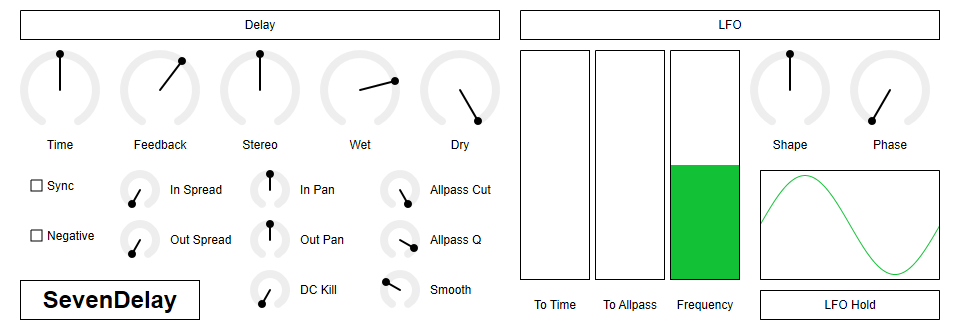
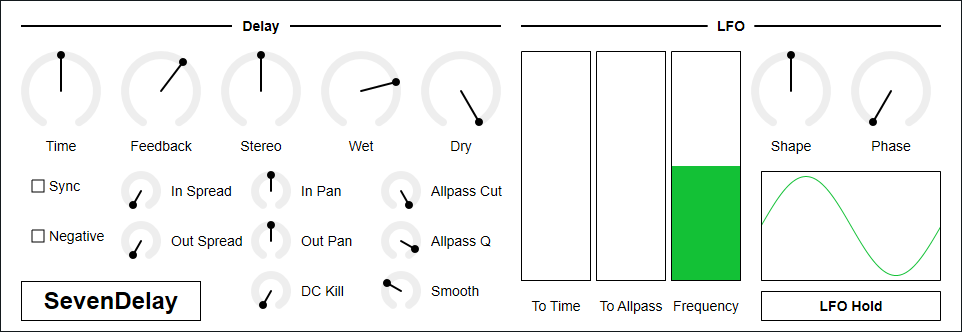
Update documentation

diff --git a/docs/manual/SyncSawSynth/SyncSawSynth_ja.html b/docs/manual/SyncSawSynth/SyncSawSynth_ja.html
@@ -227,6 +227,8 @@ footer {
 <li><a href="#sync-と-synctype">Sync と SyncType</a></li>
 <li><a href="#osctype">OscType</a></li>
 <li><a href="#phase">Phase</a></li>
+<li><a href="#unison">Unison</a></li>
+<li><a href="#number-of-voice">Number of Voice</a></li>
 </ul></li>
 <li><a href="#modulation">Modulation</a><ul>
 <li><a href="#osc1-sync1">Osc1-&gt;Sync1</a></li>
@@ -283,7 +285,7 @@ footer {
 <p><img src="img/syncsawsynth.png" /></p>
 <p><ruby>SyncSawSynth<rt>シンクソウシンセ</rt></ruby>は10次までのPTR鋸歯波オシレータが使える32ボイスのポリフォニックシンセサイザです。主にハードシンクと周波数変調で電池が切れかけのおもちゃのような音を作る用途に向いています。もちろん普通の音も出ます。</p>
 <ul>
-<li><a href="https://github.com/ryukau/VSTPlugins/releases/download/SyncSawSynth0.1.1/SyncSawSynth0.1.1.zip">SyncSawSynth 0.1.1 をダウンロード - VST® 3 (github.com)</a> <img
+<li><a href="https://github.com/ryukau/VSTPlugins/releases/download/SyncSawSynth0.1.3/SyncSawSynth0.1.3.zip">SyncSawSynth 0.1.3 をダウンロード - VST® 3 (github.com)</a> <img
 src="img/VST_Compatible_Logo_Steinberg_negative.svg"
 alt="VST compatible logo."
 width="60px"
@@ -322,6 +324,7 @@ style="display: inline-block; vertical-align: middle;"></li>
 <h2 id="注意">注意</h2>
 <p>アタックの長さによって音量エンベロープのピーク値が変わります。音量エンベロープのアタックが小さいとき、ピークは通常より少し高くなることがあります。</p>
 <p>Dirty Filter にチェックを入れるとノートオンによってプチノイズが出ることがあります。</p>
+<p>パラメータの組み合わせによっては直流信号が乗るときがあります。ディストーションなどをかけると面白い音になることがあるので、直流は切っていません。安全のためには SyncSawSynth の後にハイパスフィルタを通すことが望ましいです。またオシロスコープで出力を監視することをお勧めします。</p>
 <h2 id="用語について">用語について</h2>
 <p>SyncSawSynth のオシレータは内部に 2 つのオシレータを持っています。 1 つは波形生成のために使われ、もう 1 つはハードシンクをトリガするために使われています。ハードシンクに関する用語として、波形生成のためのオシレータのことをスレーブ、トリガに使われるオシレータのことをマスタと呼んでいます。</p>
 <h2 id="パラメータ">パラメータ</h2>
@@ -355,6 +358,10 @@ style="display: inline-block; vertical-align: middle;"></li>
 <p>オシレータの位相。範囲は 0.0 から 1.0 。</p>
 <p><code>Lock</code> にチェックを入れるとノートオンのたびに位相がリセットされます。</p>
 <p><code>Osc2</code> の <code>Invert</code> にチェックを入れると、 <code>Osc2</code> の出力の正負の符号を変えることで位相を反転します。</p>
+<h4 id="unison">Unison</h4>
+<p>チェックを入れるとノートごとに位相の異なる同じ高さの音を重ねます。CPU負荷も2倍になります。</p>
+<h4 id="number-of-voice">Number of Voice</h4>
+<p>最大同時発音数。この値を減らすとCPU負荷を減らすことができます。</p>
 <h3 id="modulation">Modulation</h3>
 <h4 id="osc1-sync1">Osc1-&gt;Sync1</h4>
 <p><code>Osc1</code> の出力による <code>Osc1</code> のマスタ周波数の変調。範囲は 0.0 から 1.0 。</p>
@@ -458,6 +465,14 @@ ShaperB(x)  := 0.7439087749328765 * x^3 * exp(-abs(x))</code></pre>
 <p>ノートの MIDI ノート番号によるフィードバックの変調。範囲は -1.0 から 1.0 。</p>
 <h2 id="チェンジログ">チェンジログ</h2>
 <ul>
+<li>0.1.3
+<ul>
+<li>ユニゾンパラメータを追加。</li>
+<li>最大同時発音数パラメータを追加。</li>
+<li>内部のパラメータ構造を変更。</li>
+<li>UI の見た目を変更。</li>
+<li>フィルタと数学関数の高速化。</li>
+</ul></li>
 <li>0.1.1
 <ul>
 <li>ピッチベンドに対応。</li>

diff --git a/docs/manual/SyncSawSynth/SyncSawSynth_en.html b/docs/manual/SyncSawSynth/SyncSawSynth_en.html
@@ -227,6 +227,8 @@ footer {
 <li><a href="#sync-and-synctype">Sync and SyncType</a></li>
 <li><a href="#osctype">OscType</a></li>
 <li><a href="#phase">Phase</a></li>
+<li><a href="#unison">Unison</a></li>
+<li><a href="#number-of-voice">Number of Voice</a></li>
 </ul></li>
 <li><a href="#modulation">Modulation</a><ul>
 <li><a href="#osc1-sync1">Osc1-&gt;Sync1</a></li>
@@ -283,7 +285,7 @@ footer {
 <p><img src="img/syncsawsynth.png" /></p>
 <p>SyncSawSynth is a 32 voice polyphonic synthesizer using up to 10th order PTR sawtooth oscillator. Just a basic synthesizer but very easy to make a noise similar to low battery sound of some toys.</p>
 <ul>
-<li><a href="https://github.com/ryukau/VSTPlugins/releases/download/SyncSawSynth0.1.1/SyncSawSynth0.1.1.zip">Download SyncSawSynth 0.1.1 - VST® 3 (github.com)</a> <img
+<li><a href="https://github.com/ryukau/VSTPlugins/releases/download/SyncSawSynth0.1.3/SyncSawSynth0.1.3.zip">Download SyncSawSynth 0.1.3 - VST® 3 (github.com)</a> <img
 src="img/VST_Compatible_Logo_Steinberg_negative.svg"
 alt="VST compatible logo."
 width="60px"
@@ -322,6 +324,7 @@ style="display: inline-block; vertical-align: middle;"></li>
 <h2 id="caution">Caution</h2>
 <p>The peak value of gain envelope is determined by the length of attack. When gain envelope attack is small, the peak may be a bit higher than usual.</p>
 <p>When turning <code>Dirty Filter</code> on, a glitch may pops at the timing of note on.</p>
+<p>Some parameter configuration leads to massive DC offset. To be stay safe, it’s better to insert high-pass filter after SyncSawSynth. Monitoring output with oscilloscope is recommended.</p>
 <h2 id="terms">Terms</h2>
 <p>An oscillator of SyncSawSynth internally have 2 separate oscillators. One is for generating waveform, and other is to trigger hardsync. In term of hardsync, waveform generator is called slave and oscillator used to trigger is called master.</p>
 <h2 id="parameters">Parameters</h2>
@@ -355,6 +358,10 @@ style="display: inline-block; vertical-align: middle;"></li>
 <p>Oscillator phase. Range is 0.0 to 1.0.</p>
 <p>If <code>Lock</code> is checked, phase will be reset for each note on.</p>
 <p>If <code>Invert</code> on <code>Osc2</code> is checked, phase will be inverted by changing sign of the output of <code>Osc2</code>.</p>
+<h4 id="unison">Unison</h4>
+<p>When checked, add same tone with different phase for each note. CPU load will also be doubled.</p>
+<h4 id="number-of-voice">Number of Voice</h4>
+<p>Maximum polyphony. Lowering the number of this option reduces CPU load.</p>
 <h3 id="modulation">Modulation</h3>
 <h4 id="osc1-sync1">Osc1-&gt;Sync1</h4>
 <p>Modulation from <code>Osc1</code> output to <code>Osc1</code> master frequency. Range is 0.0 to 1.0.</p>
@@ -458,6 +465,14 @@ ShaperB(x)  := 0.7439087749328765 * x^3 * exp(-abs(x))</code></pre>
 <p>Modulation from MIDI note number to feedback. Range is -1.0 to 1.0.</p>
 <h2 id="change-log">Change Log</h2>
 <ul>
+<li>0.1.3
+<ul>
+<li>Added unison parameter.</li>
+<li>Added number of voice parameter.</li>
+<li>Changed internal parameter structure.</li>
+<li>Changed UI looks.</li>
+<li>Made filter and math function faster.</li>
+</ul></li>
 <li>0.1.1
 <ul>
 <li>Added pitchbend support.</li>

diff --git a/docs/manual/SevenDelay/SevenDelay_ja.html b/docs/manual/SevenDelay/SevenDelay_ja.html
@@ -254,7 +254,7 @@ footer {
 <p><img src="img/sevendelay.png" /></p>
 <p><ruby>SevenDelay<rt>セブンディレイ</rt></ruby> は7次のラグランジュ補間による分数ディレイと7倍のオーバーサンプリングを使ったステレオディレイです。</p>
 <ul>
-<li><a href="https://github.com/ryukau/VSTPlugins/releases/download/SevenDelay0.1.1/SevenDelay0.1.1.zip">SevenDelay 0.1.1 をダウンロード - VST® 3 (github.com)</a> <img
+<li><a href="https://github.com/ryukau/VSTPlugins/releases/download/SevenDelay0.1.2/SevenDelay0.1.2.zip">SevenDelay 0.1.2 をダウンロード - VST® 3 (github.com)</a> <img
 src="img/VST_Compatible_Logo_Steinberg_negative.svg"
 alt="VST compatible logo."
 width="60px"
@@ -362,6 +362,11 @@ lfo = sign * abs(sin(phase))^shape</code></pre>
 <p>LFO の位相のホールドの切り替え。ライブ演奏などで役に立つかもしれません。</p>
 <h2 id="チェンジログ">チェンジログ</h2>
 <ul>
+<li>0.1.2
+<ul>
+<li>内部のパラメータの構造を変更。</li>
+<li>UI の見た目を変更。</li>
+</ul></li>
 <li>0.1.1
 <ul>
 <li>Linux ビルドの GUI を無効化。VSTGUI に関するバグが治るまでの応急処置。</li>

diff --git a/docs/manual/SevenDelay/SevenDelay_en.html b/docs/manual/SevenDelay/SevenDelay_en.html
@@ -254,7 +254,7 @@ footer {
 <p><img src="img/sevendelay.png" /></p>
 <p>SevenDelay is a stereo delay with 7th order lagrange interpolated fractional delay and 7x oversampling.</p>
 <ul>
-<li><a href="https://github.com/ryukau/VSTPlugins/releases/download/SevenDelay0.1.1/SevenDelay0.1.1.zip">Download SevenDelay 0.1.1 - VST® 3 (github.com)</a> <img
+<li><a href="https://github.com/ryukau/VSTPlugins/releases/download/SevenDelay0.1.2/SevenDelay0.1.2.zip">Download SevenDelay 0.1.2 - VST® 3 (github.com)</a> <img
 src="img/VST_Compatible_Logo_Steinberg_negative.svg"
 alt="VST compatible logo."
 width="60px"
@@ -361,6 +361,11 @@ lfo = sign * abs(sin(phase))^shape</code></pre>
 <p>Toggle LFO phase hold. This may be useful for live performance.</p>
 <h2 id="change-log">Change Log</h2>
 <ul>
+<li>0.1.2
+<ul>
+<li>Changed internal parameter structure.</li>
+<li>Changed UI looks.</li>
+</ul></li>
 <li>0.1.1
 <ul>
 <li>Disabled GUI for Linux build. This is a makeshift change while tracking down a bug related to VSTGUI.</li>

diff --git a/docs/manual/SyncSawSynth/SyncSawSynth_ja.md b/docs/manual/SyncSawSynth/SyncSawSynth_ja.md
@@ -3,7 +3,7 @@
 
 <ruby>SyncSawSynth<rt>シンクソウシンセ</rt></ruby>は10次までのPTR鋸歯波オシレータが使える32ボイスのポリフォニックシンセサイザです。主にハードシンクと周波数変調で電池が切れかけのおもちゃのような音を作る用途に向いています。もちろん普通の音も出ます。
 
-- [SyncSawSynth 0.1.1 をダウンロード - VST® 3 (github.com)](https://github.com/ryukau/VSTPlugins/releases/download/SyncSawSynth0.1.1/SyncSawSynth0.1.1.zip) <img
+- [SyncSawSynth 0.1.3 をダウンロード - VST® 3 (github.com)](https://github.com/ryukau/VSTPlugins/releases/download/SyncSawSynth0.1.3/SyncSawSynth0.1.3.zip) <img
   src="img/VST_Compatible_Logo_Steinberg_negative.svg"
   alt="VST compatible logo."
   width="60px"
@@ -52,6 +52,8 @@ REAPER 5.983 の Linux 版が SyncSawSynth を認識しないときは `~/.confi
 アタックの長さによって音量エンベロープのピーク値が変わります。音量エンベロープのアタックが小さいとき、ピークは通常より少し高くなることがあります。
 
 Dirty Filter にチェックを入れるとノートオンによってプチノイズが出ることがあります。
+
+パラメータの組み合わせによっては直流信号が乗るときがあります。ディストーションなどをかけると面白い音になることがあるので、直流は切っていません。安全のためには SyncSawSynth の後にハイパスフィルタを通すことが望ましいです。またオシロスコープで出力を監視することをお勧めします。
 
 ## 用語について
 SyncSawSynth のオシレータは内部に 2 つのオシレータを持っています。 1 つは波形生成のために使われ、もう 1 つはハードシンクをトリガするために使われています。ハードシンクに関する用語として、波形生成のためのオシレータのことをスレーブ、トリガに使われるオシレータのことをマスタと呼んでいます。
@@ -104,6 +106,12 @@ frequency = 2 * Sync^3
 `Lock` にチェックを入れるとノートオンのたびに位相がリセットされます。
 
 `Osc2` の `Invert` にチェックを入れると、 `Osc2` の出力の正負の符号を変えることで位相を反転します。
+
+#### Unison
+チェックを入れるとノートごとに位相の異なる同じ高さの音を重ねます。CPU負荷も2倍になります。
+
+#### Number of Voice
+最大同時発音数。この値を減らすとCPU負荷を減らすことができます。
 
 ### Modulation
 #### Osc1->Sync1
@@ -263,6 +271,12 @@ ShaperB(x)  := 0.7439087749328765 * x^3 * exp(-abs(x))
 ノートの MIDI ノート番号によるフィードバックの変調。範囲は -1.0 から 1.0 。
 
 ## チェンジログ
+- 0.1.3
+  - ユニゾンパラメータを追加。
+  - 最大同時発音数パラメータを追加。
+  - 内部のパラメータ構造を変更。
+  - UI の見た目を変更。
+  - フィルタと数学関数の高速化。
 - 0.1.1
   - ピッチベンドに対応。
   - double 型の PTR を追加。

diff --git a/docs/manual/SyncSawSynth/SyncSawSynth_en.md b/docs/manual/SyncSawSynth/SyncSawSynth_en.md
@@ -3,7 +3,7 @@
 
 SyncSawSynth is a 32 voice polyphonic synthesizer using up to 10th order PTR sawtooth oscillator. Just a basic synthesizer but very easy to make a noise similar to low battery sound of some toys.
 
-- [Download SyncSawSynth 0.1.1 - VST® 3 (github.com)](https://github.com/ryukau/VSTPlugins/releases/download/SyncSawSynth0.1.1/SyncSawSynth0.1.1.zip) <img
+- [Download SyncSawSynth 0.1.3 - VST® 3 (github.com)](https://github.com/ryukau/VSTPlugins/releases/download/SyncSawSynth0.1.3/SyncSawSynth0.1.3.zip) <img
   src="img/VST_Compatible_Logo_Steinberg_negative.svg"
   alt="VST compatible logo."
   width="60px"
@@ -52,6 +52,8 @@ Right clicking on controllable object popups a context menu provided by DAW.
 The peak value of gain envelope is determined by the length of attack. When gain envelope attack is small, the peak may be a bit higher than usual.
 
 When turning `Dirty Filter` on, a glitch may pops at the timing of note on.
+
+Some parameter configuration leads to massive DC offset. To be stay safe, it's better to insert high-pass filter after SyncSawSynth. Monitoring output with oscilloscope is recommended.
 
 ## Terms
 An oscillator of SyncSawSynth internally have 2 separate oscillators. One is for generating waveform, and other is to trigger hardsync. In term of hardsync, waveform generator is called slave and oscillator used to trigger is called master.
@@ -104,6 +106,12 @@ Oscillator phase. Range is 0.0 to 1.0.
 If `Lock` is checked, phase will be reset for each note on.
 
 If `Invert` on `Osc2` is checked, phase will be inverted by changing sign of the output of `Osc2`.
+
+#### Unison
+When checked, add same tone with different phase for each note. CPU load will also be doubled.
+
+#### Number of Voice
+Maximum polyphony. Lowering the number of this option reduces CPU load.
 
 ### Modulation
 #### Osc1->Sync1
@@ -263,6 +271,12 @@ Modulation from MIDI note number to cutoff frequency. Range is -1.0 to 1.0.
 Modulation from MIDI note number to feedback. Range is -1.0 to 1.0.
 
 ## Change Log
+- 0.1.3
+  - Added unison parameter.
+  - Added number of voice parameter.
+  - Changed internal parameter structure.
+  - Changed UI looks.
+  - Made filter and math function faster.
 - 0.1.1
   - Added pitchbend support.
   - Added double precision PTR options.

diff --git a/docs/manual/SevenDelay/SevenDelay_en.md b/docs/manual/SevenDelay/SevenDelay_en.md
@@ -3,7 +3,7 @@
 
 SevenDelay is a stereo delay with 7th order lagrange interpolated fractional delay and 7x oversampling.
 
-- [Download SevenDelay 0.1.1 - VST® 3 (github.com)](https://github.com/ryukau/VSTPlugins/releases/download/SevenDelay0.1.1/SevenDelay0.1.1.zip) <img
+- [Download SevenDelay 0.1.2 - VST® 3 (github.com)](https://github.com/ryukau/VSTPlugins/releases/download/SevenDelay0.1.2/SevenDelay0.1.2.zip) <img
   src="img/VST_Compatible_Logo_Steinberg_negative.svg"
   alt="VST compatible logo."
   width="60px"
@@ -146,6 +146,9 @@ LFO phase is reset to `Phase` for each time host starts playing.
 Toggle LFO phase hold. This may be useful for live performance.
 
 ## Change Log
+- 0.1.2
+  - Changed internal parameter structure.
+  - Changed UI looks.
 - 0.1.1
   - Disabled GUI for Linux build. This is a makeshift change while tracking down a bug related to VSTGUI.
   - Changed tuning of `To Allpass` of LFO.
